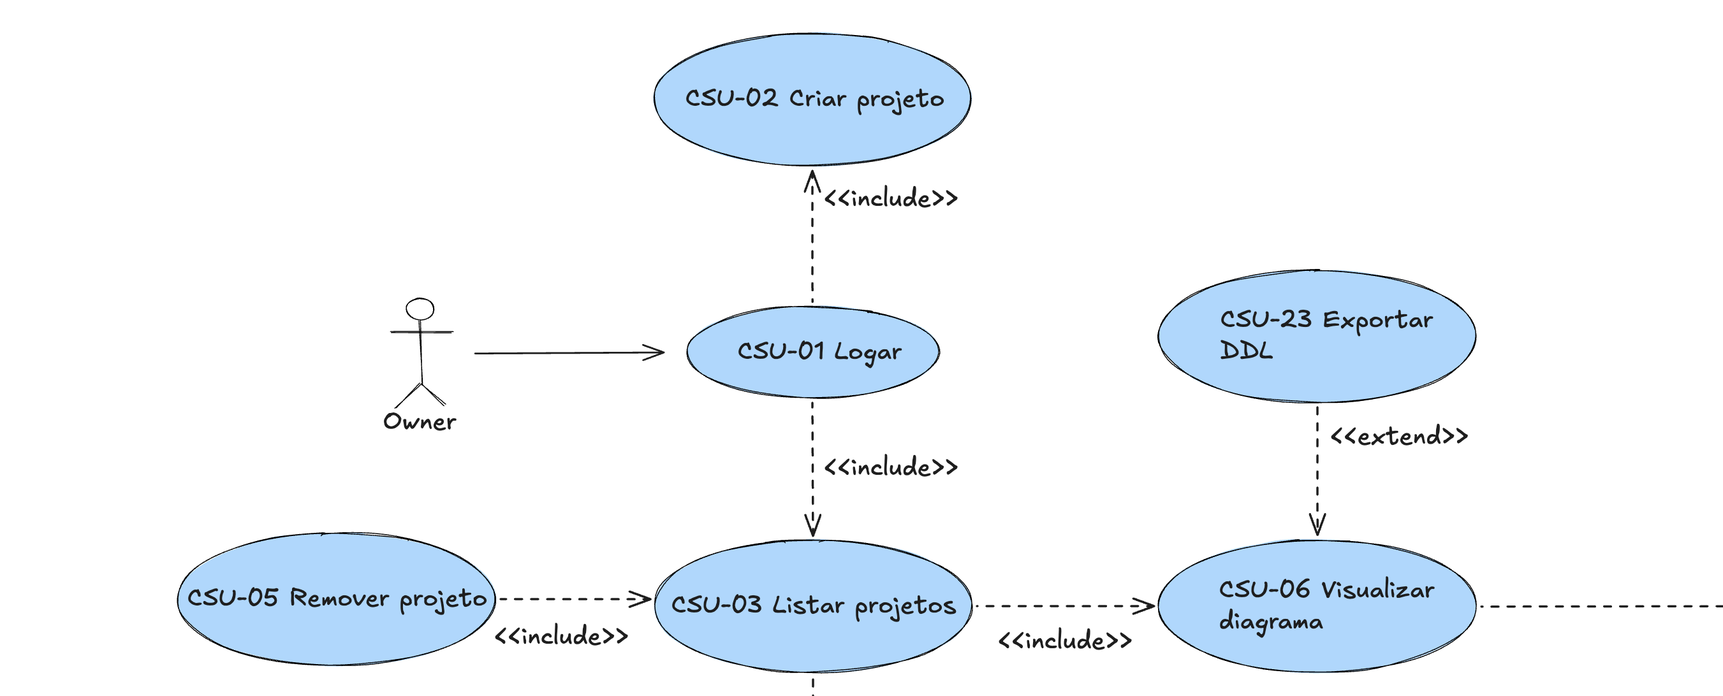
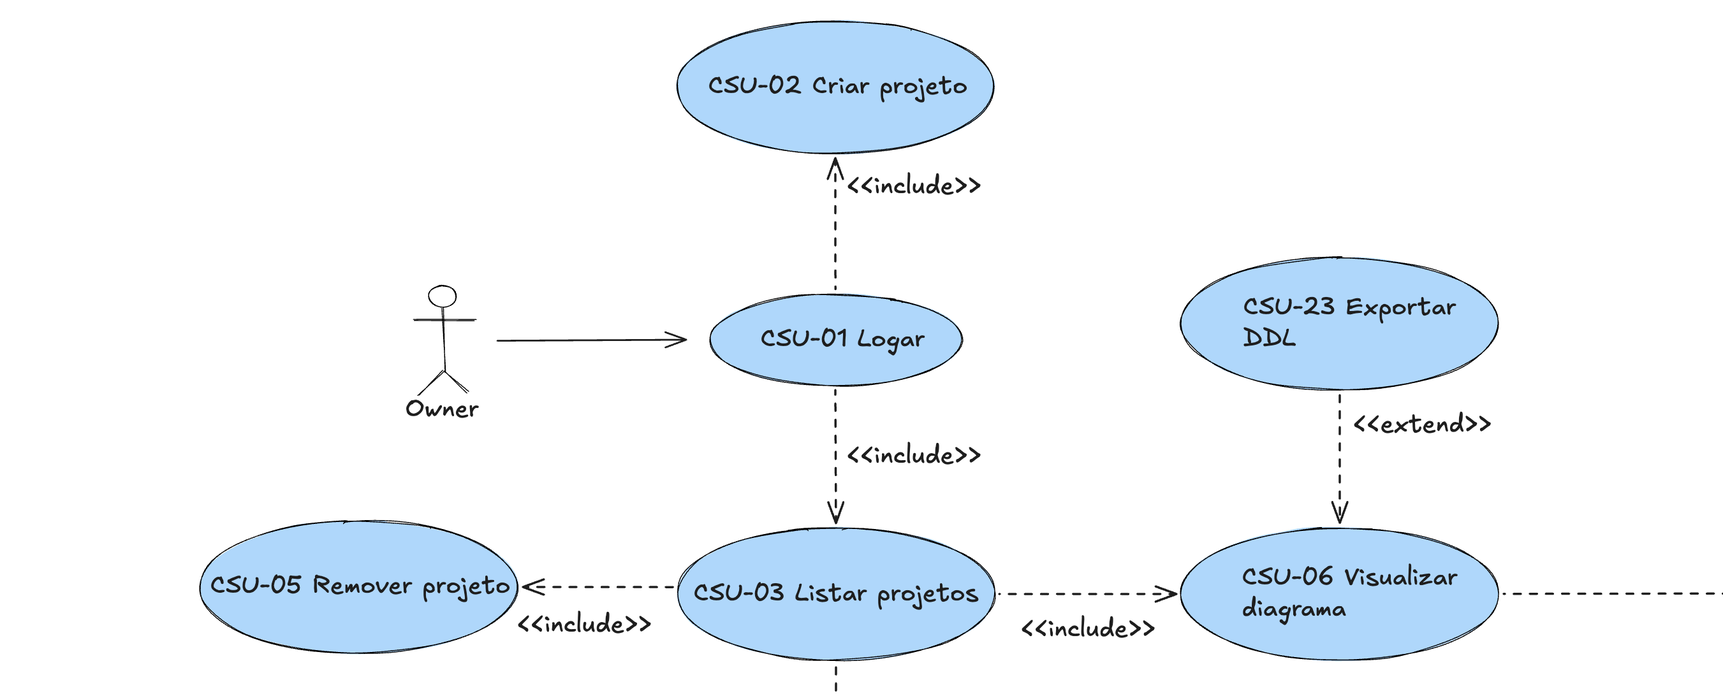
Updates from Overleaf

diff --git a/resultados.tex b/resultados.tex
@@ -8,7 +8,7 @@ Esta seção apresenta os resultados obtidos ao longo do desenvolvimento do prot
 
 O diagrama de caso de uso detalha as interações entre os atores e o sistema. Foram identificados três atores distintos, cada um representando um perfil de acesso diferente dentro da plataforma: \textit{Viewer}, \textit{Editor} e \textit{Owner}. Para preservar a legibilidade, os diagramas foram divididos em partes complementares, cada uma retomando o caso de uso que a conecta às demais. Como o \textit{Owner} compartilha integralmente os casos de uso do \textit{Editor}, as suas figuras apresentam somente os casos de uso que lhe são exclusivos, sem repetir as operações de modelagem já ilustradas. A especificação completa de cada caso de uso encontra-se no \hyperref[anx:caso-de-uso]{Anexo A}.
 
-O ator \textit{Viewer}, apresentado na Figura~\ref{fig:caso-de-uso-viewer}, representa o colaborador com acesso somente leitura. Após realizar o \textit{login} (CSU-01), ele pode listar os projetos dos quais faz parte (CSU-03) e visualizar os diagramas associados a eles (CSU-06).
+O ator \textit{Viewer}, apresentado na Figura~\ref{fig:caso-de-uso-viewer}, representa o colaborador com acesso somente leitura. Após realizar o \textit{login}, ele pode listar os projetos dos quais faz parte e visualizar os diagramas associados a eles.
 
 \begin{figure}[H]
     \centering
@@ -20,96 +20,96 @@ O ator \textit{Viewer}, apresentado na Figura~\ref{fig:caso-de-uso-viewer}, repr
     \label{fig:caso-de-uso-viewer}
 \end{figure}
 
-O ator \textit{Editor} herda as capacidades do \textit{Viewer} e adiciona a permissão de editar diagramas. Como o conjunto de casos de uso desse ator é extenso, o diagrama foi dividido em cinco partes, apresentadas nas Figuras~\ref{fig:caso-de-uso-editor-p1} a~\ref{fig:caso-de-uso-editor-p5}. A Figura~\ref{fig:caso-de-uso-editor-p1} apresenta o fluxo principal: após o \textit{login}, o \textit{Editor} lista os projetos, visualiza o diagrama --- de onde é possível exportar o \textit{script} SQL correspondente (CSU-23) --- e acessa a edição do diagrama (CSU-07), caso de uso que concentra as operações de modelagem detalhadas nas partes seguintes.
+O ator \textit{Editor} herda as capacidades do \textit{Viewer} e adiciona a permissão de editar diagramas. Como o conjunto de casos de uso desse ator é extenso, o diagrama foi dividido em cinco partes, apresentadas nas Figuras~\ref{fig:caso-de-uso-editor-p1} a~\ref{fig:caso-de-uso-editor-p5}. A Figura~\ref{fig:caso-de-uso-editor-p1} apresenta o fluxo principal: após o \textit{login}, o \textit{Editor} lista os projetos, visualiza o diagrama de onde é possível exportar o \textit{script} SQL correspondente e acessa a edição do diagrama, caso de uso que concentra as operações de modelagem detalhadas nas partes seguintes.
 
 \begin{figure}[H]
     \centering
     \includegraphics[width=15cm]{figuras/editor-part1.png}
-    \caption{Diagrama de caso de uso do ator Editor --- parte 1 de 5: fluxo principal}
+    \caption{Diagrama de caso de uso do ator Editor destacando o fluxo principal}
     \begin{center}
         {\small Fonte: Elaborado pelo autor}
     \end{center}
     \label{fig:caso-de-uso-editor-p1}
 \end{figure}
 
-A Figura~\ref{fig:caso-de-uso-editor-p2} detalha, a partir do CSU-07, as operações sobre tabelas: adicionar (CSU-13), editar (CSU-14) e remover (CSU-15). A edição de uma tabela abrange ainda a adição (CSU-19) e a listagem dos seus atributos (CSU-20).
+A Figura~\ref{fig:caso-de-uso-editor-p2} detalha, a partir do CSU-07, as operações sobre tabelas: adicionar, editar e remover. A edição de uma tabela abrange ainda a adição e a listagem dos seus atributos.
 
 \begin{figure}[H]
     \centering
     \includegraphics[width=15cm]{figuras/editor-part2.png}
-    \caption{Diagrama de caso de uso do ator Editor --- parte 2 de 5: gerenciamento de tabelas, a partir do CSU-07}
+    \caption{Diagrama de caso de uso do ator Editor destacando o gerenciamento de tabelas}
     \begin{center}
         {\small Fonte: Elaborado pelo autor}
     \end{center}
     \label{fig:caso-de-uso-editor-p2}
 \end{figure}
 
-A Figura~\ref{fig:caso-de-uso-editor-p3} dá continuidade ao CSU-20 da parte anterior, apresentando a edição (CSU-21) e a remoção (CSU-22) de atributos como extensões da listagem.
+A Figura~\ref{fig:caso-de-uso-editor-p3} dá continuidade ao CSU-20 da parte anterior, apresentando a edição e a remoção de atributos como extensões da listagem.
 
 \begin{figure}[H]
     \centering
     \includegraphics[width=15cm]{figuras/editor-part3.png}
-    \caption{Diagrama de caso de uso do ator Editor --- parte 3 de 5: gerenciamento de atributos, a partir do CSU-20}
+    \caption{Diagrama de caso de uso do ator Editor destacando o gerenciamento de atributos}
     \begin{center}
         {\small Fonte: Elaborado pelo autor}
     \end{center}
     \label{fig:caso-de-uso-editor-p3}
 \end{figure}
 
-A Figura~\ref{fig:caso-de-uso-editor-p4} retoma o CSU-07 e apresenta as operações sobre os relacionamentos entre entidades: adicionar (CSU-16) e remover (CSU-17).
+A Figura~\ref{fig:caso-de-uso-editor-p4} retoma o CSU-07 e apresenta as operações sobre os relacionamentos entre entidades: adicionar e remover.
 
 \begin{figure}[H]
     \centering
     \includegraphics[width=15cm]{figuras/editor-part4.png}
-    \caption{Diagrama de caso de uso do ator Editor --- parte 4 de 5: gerenciamento de relacionamentos, a partir do CSU-07}
+    \caption{Diagrama de caso de uso do ator Editor destacando o gerenciamento de relacionamentos}
     \begin{center}
         {\small Fonte: Elaborado pelo autor}
     \end{center}
     \label{fig:caso-de-uso-editor-p4}
 \end{figure}
 
-Por fim, a Figura~\ref{fig:caso-de-uso-editor-p5}, também derivada do CSU-07, reúne o reposicionamento de elementos na área de desenho (CSU-18) e a importação de \textit{script} SQL (CSU-24).
+Por fim, a Figura~\ref{fig:caso-de-uso-editor-p5}, também derivada do CSU-07, reúne o reposicionamento de elementos na área de desenho e a importação do \textit{script} SQL.
 
 \begin{figure}[H]
     \centering
     \includegraphics[width=15cm]{figuras/editor-part5.png}
-    \caption{Diagrama de caso de uso do ator Editor --- parte 5 de 5: movimentação de elementos e importação SQL, a partir do CSU-07}
+    \caption{Diagrama de caso de uso do ator Editor destacando a movimentação de elementos e importação SQL}
     \begin{center}
         {\small Fonte: Elaborado pelo autor}
     \end{center}
     \label{fig:caso-de-uso-editor-p5}
 \end{figure}
 
-O ator \textit{Owner} possui o conjunto mais amplo de permissões: além de todos os casos de uso do \textit{Editor}, é o responsável pelo ciclo de vida dos projetos e pela gestão do time de colaboradores. As operações de modelagem do diagrama são exatamente as mesmas do \textit{Editor} e, por isso, não são reproduzidas novamente --- permanecem válidas as Figuras~\ref{fig:caso-de-uso-editor-p1} a~\ref{fig:caso-de-uso-editor-p5}, bastando substituir o ator. As Figuras~\ref{fig:caso-de-uso-owner-p1} a~\ref{fig:caso-de-uso-owner-p3} apresentam apenas o que é exclusivo desse ator. A Figura~\ref{fig:caso-de-uso-owner-p1} mostra o fluxo principal: após o \textit{login} (CSU-01), o \textit{Owner} pode criar projetos (CSU-02) e listar os projetos existentes (CSU-03), listagem a partir da qual remove projetos (CSU-05) e acessa a visualização do diagrama (CSU-06), retomando daí o mesmo percurso de edição já descrito para o \textit{Editor}.
+O ator \textit{Owner} possui o conjunto mais amplo de permissões: além de todos os casos de uso do \textit{Editor}, é o responsável pelo ciclo de vida dos projetos e pela gestão do time de colaboradores. As operações de modelagem do diagrama são exatamente as mesmas do \textit{Editor} e, por isso, não são reproduzidas novamente e permanecem válidas as Figuras~\ref{fig:caso-de-uso-editor-p1} a~\ref{fig:caso-de-uso-editor-p5}, bastando substituir o ator. As Figuras~\ref{fig:caso-de-uso-owner-p1} a~\ref{fig:caso-de-uso-owner-p3} apresentam apenas o que é exclusivo desse ator. A Figura~\ref{fig:caso-de-uso-owner-p1} mostra o fluxo principal: após o \textit{login}, o \textit{Owner} pode criar projetos e listar os projetos existentes, listagem a partir da qual remove projetos e acessa a visualização do diagrama, retomando daí o mesmo percurso de edição já descrito para o \textit{Editor}.
 
 \begin{figure}[H]
     \centering
     \includegraphics[width=15cm]{figuras/owner-part1.png}
-    \caption{Diagrama de caso de uso do ator Owner --- parte 1 de 3: fluxo principal e ciclo de vida dos projetos}
+    \caption{Diagrama de caso de uso do ator Owner destacando fluxo principal e ciclo de vida dos projetos}
     \begin{center}
         {\small Fonte: Elaborado pelo autor}
     \end{center}
     \label{fig:caso-de-uso-owner-p1}
 \end{figure}
 
-A Figura~\ref{fig:caso-de-uso-owner-p2} dá continuidade à listagem de projetos (CSU-03) e apresenta a edição do projeto (CSU-04), que dá acesso à adição de membros ao time (CSU-08) e à listagem dos membros existentes (CSU-09).
+A Figura~\ref{fig:caso-de-uso-owner-p2} dá continuidade à listagem de projetos e apresenta a edição do projeto, que dá acesso à adição de membros ao time e à listagem dos membros existentes.
 
 \begin{figure}[H]
     \centering
     \includegraphics[width=15cm]{figuras/owner-part2.png}
-    \caption{Diagrama de caso de uso do ator Owner --- parte 2 de 3: gestão do projeto e do time, a partir do CSU-03}
+    \caption{Diagrama de caso de uso do ator Owner destacando a gestão do projeto e do time}
     \begin{center}
         {\small Fonte: Elaborado pelo autor}
     \end{center}
     \label{fig:caso-de-uso-owner-p2}
 \end{figure}
 
-Por fim, a Figura~\ref{fig:caso-de-uso-owner-p3} dá continuidade ao CSU-09, com a remoção (CSU-11) e a edição de membros (CSU-10), esta última estendida pela alteração do papel de acesso do colaborador no projeto (CSU-12).
+Por fim, a Figura~\ref{fig:caso-de-uso-owner-p3} dá continuidade ao CSU-09, com a remoção e a edição de membros, sendo esta última estendida pela alteração do papel de acesso do colaborador no projeto.
 
 \begin{figure}[H]
     \centering
     \includegraphics[width=15cm]{figuras/owner-part3.png}
-    \caption{Diagrama de caso de uso do ator Owner --- parte 3 de 3: gerenciamento de membros, a partir do CSU-09}
+    \caption{Diagrama de caso de uso do ator Owner destacando o gerenciamento de membros}
     \begin{center}
         {\small Fonte: Elaborado pelo autor}
     \end{center}
@@ -120,7 +120,7 @@ Por fim, a Figura~\ref{fig:caso-de-uso-owner-p3} dá continuidade ao CSU-09, com
 
 As figuras \ref{fig:modelo-conceitual}, \ref{fig:modelo-logico} e \ref{fig:modelo-nosql} apresentam, respectivamente, os artefatos de modelagem de dados produzidos no projeto: o modelo conceitual e o modelo lógico do banco de dados relacional, e o esquema não-relacional com MongoDB.
 
-O modelo conceitual define as entidades e relacionamentos de alto nível, representando a estrutura geral dos dados. Ao todo, sete entidades compõem o modelo --- \textit{users}, \textit{teams}, \textit{projects}, \textit{diagrams}, \textit{entities}, \textit{attributes} e \textit{relationships} ---, conectadas por relações que refletem a hierarquia usuário-time-projeto-diagrama e a composição interna de cada diagrama em entidades, atributos e relacionamentos.
+O modelo conceitual define as entidades e relacionamentos de alto nível, representando a estrutura geral dos dados. Ao todo, sete entidades compõem o modelo (\textit{users}, \textit{teams}, \textit{projects}, \textit{diagrams}, \textit{entities}, \textit{attributes} e \textit{relationships}) conectadas por relações que refletem a hierarquia usuário-time-projeto-diagrama e a composição interna de cada diagrama em entidades, atributos e relacionamentos.
 
 \begin{figure}[H]
     \centering
@@ -132,7 +132,7 @@ O modelo conceitual define as entidades e relacionamentos de alto nível, repres
     \label{fig:modelo-conceitual}
 \end{figure}
 
-O modelo lógico detalha a estrutura das tabelas e seus atributos, considerando as características do sistema de gerenciamento de banco de dados utilizado. O esquema relacional é composto por quatro tabelas --- \textit{teams}, \textit{projects}, \textit{users} e \textit{refresh\_tokens} --- relacionadas por chaves estrangeiras que garantem a integridade referencial entre usuários, times e projetos, além do controle de sessão por meio dos \textit{tokens} de renovação.
+O modelo lógico detalha a estrutura das tabelas e seus atributos, considerando as características do sistema de gerenciamento de banco de dados utilizado. O esquema relacional é composto por quatro tabelas (\textit{teams}, \textit{projects}, \textit{users} e \textit{refresh\_tokens}) relacionadas por chaves estrangeiras que garantem a integridade referencial entre usuários, times e projetos, além do controle de sessão por meio dos \textit{tokens} de renovação.
 
 \begin{figure}[H]
     \centering
@@ -144,7 +144,7 @@ O modelo lógico detalha a estrutura das tabelas e seus atributos, considerando 
     \label{fig:modelo-logico}
 \end{figure}
 
-O esquema documental projetado para o MongoDB contempla as coleções, os campos e os tipos de dados. O esquema é composto por uma única coleção, \textit{diagram}, com cinco campos: o identificador (\textit{\_id}), o discriminador de classe (\textit{\_class}), a referência ao projeto (\textit{projectId}) e os campos \textit{linkData} e \textit{nodeData}, detalhados a seguir, que armazenam, respectivamente, os relacionamentos e as entidades do diagrama em formato serializado.
+O esquema documental projetado para o MongoDB contempla as coleções, os campos e os tipos de dados. O esquema é composto por uma única coleção chamada \textit{diagram}, com cinco campos: o identificador, o discriminador de classe, a referência ao projeto e os campos \textit{linkData} e \textit{nodeData}, detalhados a seguir, que armazenam, respectivamente, os relacionamentos e as entidades do diagrama em formato serializado.
 
 \begin{figure}[H]
     \centering
@@ -267,7 +267,7 @@ Conforme descrito na Subseção~\ref{subsec:testes} da Metodologia, a validaçã
 
 No \textit{back-end}, a suíte de testes unitários com JUnit e Mockito cobre a lógica de negócio, o acesso aos dados e as regras de segurança da aplicação, incluindo a validação do \textit{token} JWT e as camadas de autorização apresentadas na Figura~\ref{fig:arquitetura-autenticacao}. A cobertura de código dessa suíte é medida automaticamente pelo JaCoCo, e a qualidade do código é avaliada pelo SonarQube; ambas as verificações são executadas a cada atualização enviada ao repositório, impedindo que alterações que reduzam a cobertura mínima estabelecida sejam incorporadas ao projeto.
 
-No \textit{front-end}, a suíte de testes unitários com Jasmine e Karma cobre os componentes de interface e os serviços responsáveis pela comunicação com o \textit{back-end} e pela navegação entre telas. Para viabilizar essa cobertura, as partes do editor de diagramas que dependem diretamente de bibliotecas externas --- a renderização via GoJS e a comunicação em tempo real --- foram isoladas em componentes próprios, o que permite testá-las de forma independente do restante da aplicação. Assim como no \textit{back-end}, essa suíte também é executada automaticamente a cada atualização de código, com a mesma exigência de cobertura mínima.
+No \textit{front-end}, a suíte de testes unitários com Jasmine e Karma cobre os componentes de interface e os serviços responsáveis pela comunicação com o \textit{back-end} e pela navegação entre telas. Para viabilizar essa cobertura, as partes do editor de diagramas que dependem diretamente de bibliotecas externas, a renderização via GoJS e a comunicação em tempo real, foram isoladas em componentes próprios, o que permite testá-las de forma independente do restante da aplicação. Assim como no \textit{back-end}, essa suíte também é executada automaticamente a cada atualização de código, com a mesma exigência de cobertura mínima.
 
 Os testes manuais com Postman validaram os principais fluxos das APIs REST expostas pelo \textit{back-end}: autenticação e renovação de \textit{token}, criação, edição e exclusão de projetos, gestão de times (adição, listagem, alteração de papel e remoção de membros) e persistência do estado do diagrama (entidades, atributos, relacionamentos e posicionamentos).
 

diff --git a/metodologia.tex b/metodologia.tex
@@ -16,49 +16,49 @@ Nesta seção, são listados os equipamentos de \textit{hardware} e as ferrament
 \subsection[Análise, Modelagem e Projeto]{Análise, Modelagem e Projeto}
 
 \begin{itemize}
-    \item Unified Modeling Language (UML) \cite{UML2015} --- elaboração dos diagramas de caso de uso do sistema.
-    \item Excalidraw, com a biblioteca \textit{Shapes for UML and ER Diagrams} --- criação dos diagramas de arquitetura e dos modelos de dados.
+    \item Unified Modeling Language (UML) \cite{UML2015}: elaboração dos diagramas de caso de uso do sistema.
+    \item Excalidraw, com a biblioteca \textit{Shapes for UML and ER Diagrams}: criação dos diagramas de arquitetura e dos modelos de dados.
 \end{itemize}
 
 \subsection[Persistência de dados]{Persistência de dados}
 
 \begin{itemize}
-    \item PostgreSQL \cite{PostgreSQL2024} --- persistência dos dados relacionais (usuários, projetos e permissões de acesso).
-    \item MongoDB \cite{MongoDB2021} --- persistência da estrutura dos diagramas ER.
-    \item DBeaver --- administração, consulta e manipulação dos dados no PostgreSQL e no MongoDB.
+    \item PostgreSQL \cite{PostgreSQL2024}: persistência dos dados relacionais (usuários, projetos e permissões de acesso).
+    \item MongoDB \cite{MongoDB2021}: persistência da estrutura dos diagramas ER.
+    \item DBeaver: administração, consulta e manipulação dos dados no PostgreSQL e no MongoDB.
 \end{itemize}
 
 \subsection[Implementação]{Implementação}
 
 \begin{itemize}
-    \item Git \cite{Git2025} --- controle de versão do código-fonte.
-    \item GitHub \cite{GitHub2024} --- hospedagem e repositório central do código-fonte.
-    \item GitHub Copilot --- apoio à revisão de código em parte dos \textit{pull requests}.
-    \item Docker \cite{Docker2024} --- containerização do ambiente de desenvolvimento e dos bancos de dados.
-    \item IntelliJ IDEA \cite{IntelliJ2024} --- IDE para o desenvolvimento do \textit{back-end} em Java e Spring.
-    \item WebStorm \cite{WebStorm2024} --- IDE para o desenvolvimento do \textit{front-end} em Angular.
-    \item Java \cite{Java2024} --- linguagem de programação do \textit{back-end}.
-    \item Spring Boot \cite{SpringBoot2024} --- \textit{framework} de estruturação do \textit{back-end} e das APIs REST.
-    \item Spring WebSocket \cite{WebSockets2024} --- comunicação em tempo real entre \textit{back-end} e clientes.
-    \item Spring Security \cite{SpringSecurity2024} --- autenticação e autorização da aplicação, em conjunto com JWT.
-    \item Spring Data JPA \cite{SpringDataJPA2024} --- camada de acesso a dados do PostgreSQL.
-    \item Spring Data MongoDB \cite{SpringDataMongoDB2024} --- camada de acesso a dados do MongoDB.
-    \item Angular \cite{Angular2022} --- construção da interface do usuário como \textit{Single-Page Application}.
-    \item GoJS \cite{GoJS2024} --- renderização e manipulação interativa dos diagramas ER.
-    \item stompjs e SockJS \cite{StompJS2023} --- comunicação via \textit{WebSocket} no lado do cliente.
-    \item Node Package Manager (npm) \cite{NPM2024} --- gestão das dependências do \textit{front-end}.
+    \item Git \cite{Git2025}: controle de versão do código-fonte.
+    \item GitHub \cite{GitHub2024}: hospedagem e repositório central do código-fonte.
+    \item GitHub Copilot \cite{GitHubCopilot2026}: apoio à revisão de código em parte dos \textit{pull requests}.
+    \item Docker \cite{Docker2024}: containerização do ambiente de desenvolvimento e dos bancos de dados.
+    \item IntelliJ IDEA \cite{IntelliJ2024}: IDE para o desenvolvimento do \textit{back-end} em Java e Spring.
+    \item WebStorm \cite{WebStorm2024}: IDE para o desenvolvimento do \textit{front-end} em Angular.
+    \item Java \cite{Java2024}: linguagem de programação do \textit{back-end}.
+    \item Spring Boot \cite{SpringBoot2024}: \textit{framework} de estruturação do \textit{back-end} e das APIs REST.
+    \item Spring WebSocket \cite{WebSockets2024}: comunicação em tempo real entre \textit{back-end} e clientes.
+    \item Spring Security \cite{SpringSecurity2024}: autenticação e autorização da aplicação, em conjunto com JWT.
+    \item Spring Data JPA \cite{SpringDataJPA2024}: camada de acesso a dados do PostgreSQL.
+    \item Spring Data MongoDB \cite{SpringDataMongoDB2024}: camada de acesso a dados do MongoDB.
+    \item Angular \cite{Angular2022}: construção da interface do usuário como \textit{Single-Page Application}.
+    \item GoJS \cite{GoJS2024}: renderização e manipulação interativa dos diagramas ER.
+    \item stompjs e SockJS \cite{StompJS2023}: comunicação via \textit{WebSocket} no lado do cliente.
+    \item Node Package Manager (npm) \cite{NPM2024}: gestão das dependências do \textit{front-end}.
 \end{itemize}
 
 \subsection[Testes]{Testes}
 \label{subsec:testes}
 
 \begin{itemize}
-    \item JUnit e Mockito \cite{JUnit2023} \cite{Mockito} --- testes unitários da lógica de negócio no \textit{back-end}.
-    \item Jasmine e Karma \cite{Jasmine2024} \cite{Karma2024} --- testes unitários dos componentes e serviços do \textit{front-end}.
-    \item JaCoCo \cite{JaCoCo2024} --- medição da cobertura de código dos testes unitários do \textit{back-end}.
-    \item SonarQube \cite{SonarQube2024} --- análise estática de qualidade e cobertura de código do \textit{back-end}.
-    \item Postman \cite{Postman2024} --- testes manuais das APIs REST do \textit{back-end}.
-    \item Google Chrome e Mozilla Firefox \cite{GoogleChrome} \cite{MozillaFirefox} --- testes manuais de compatibilidade da interface do usuário.
+    \item JUnit \cite{JUnit2023} e Mockito \cite{Mockito2025}: testes unitários da lógica de negócio no \textit{back-end}.
+    \item Jasmine \cite{Jasmine2024} e Karma \cite{Karma2024}: testes unitários dos componentes e serviços do \textit{front-end}.
+    \item JaCoCo \cite{JaCoCo2024}: medição da cobertura de código dos testes unitários do \textit{back-end}.
+    \item SonarQube \cite{SonarQube2024}: análise estática de qualidade e cobertura de código do \textit{back-end}.
+    \item Postman \cite{Postman2024}: testes manuais das APIs REST do \textit{back-end}.
+    \item Google Chrome \cite{GoogleChrome2025} e Mozilla Firefox \cite{MozillaFirefox2026}: testes manuais de compatibilidade da interface do usuário.
 \end{itemize}
 
 \section[Métodos]{Métodos}
@@ -110,7 +110,7 @@ Em contrapartida, para a persistência dos dados que compõem os diagramas ER do
 
 Uma das funcionalidades centrais do protótipo é a capacidade de exportar e importar o diagrama ER como um \textit{script} SQL. Para viabilizar essas operações, foi necessário definir um dialeto SQL de referência, já que diferentes SGBDs possuem particularidades sintáticas próprias em suas instruções DDL.
 
-O dialeto adotado foi o {MySQL. O MySQL é um sistema de gerenciamento de banco de dados relacional de código aberto, mantido pela Oracle Corporation, e é amplamente reconhecido como um dos SGBDs mais utilizados no mundo para aplicações \textit{web} \cite{OracleMySQL}. Sua sintaxe DDL é amplamente difundida no mercado de desenvolvimento \textit{web}, o que torna o dialeto MySQL uma escolha adequada para maximizar a interoperabilidade dos \textit{scripts} gerados e importados pelo protótipo com outros ambientes e ferramentas do ecossistema de desenvolvimento de \textit{software}.
+O dialeto adotado foi o {MySQL. O MySQL é um sistema de gerenciamento de banco de dados relacional de código aberto, mantido pela Oracle Corporation, e é amplamente reconhecido como um dos SGBDs mais utilizados no mundo para aplicações \textit{web} \cite{OracleMySQL2024}. Sua sintaxe DDL é amplamente difundida no mercado de desenvolvimento \textit{web}, o que torna o dialeto MySQL uma escolha adequada para maximizar a interoperabilidade dos \textit{scripts} gerados e importados pelo protótipo com outros ambientes e ferramentas do ecossistema de desenvolvimento de \textit{software}.
 
 \subsection[Padrão de Arquitetura de Software e de Código]{Padrão de Arquitetura de Software e de Código}
 Com a arquitetura macro definida, foram adotados padrões específicos para a organização interna do código, tanto no \textit{back-end} quanto no \textit{front-end}.
@@ -213,7 +213,7 @@ Diante desse contexto, a adoção do inglês como idioma padrão para todos os a
 Esta padronização foi aplicada de forma abrangente nos seguintes artefatos do projeto:
 
 \begin{itemize}
-    \item Código-fonte: nomes de classes, métodos, variáveis e atributos foram definidos em inglês tanto no \textit{back-end} (Java/Spring) quanto no \textit{front-end} (Angular/TypeScript), mantendo coerência com os próprios nomes das APIs e as convenções dos \textit{frameworks} utilizados.
+    \item Código-fonte: nomes de classes, métodos, variáveis e atributos foram definidos em inglês tanto no \textit{back-end} (Spring/Java) quanto no \textit{front-end} (Angular/TypeScript), mantendo coerência com os próprios nomes das APIs e as convenções dos \textit{frameworks} utilizados.
     \item Banco de dados: os nomes das tabelas, colunas e restrições no PostgreSQL, bem como os nomes das coleções e campos dos documentos no MongoDB, foram definidos em inglês. Essa decisão garante consistência com as anotações do Spring Data JPA e do Spring Data MongoDB, que realizam o mapeamento objeto-relacional e objeto-documento a partir dos identificadores declarados no código-fonte.
     \item Diagramas: os nomes de entidades, atributos e relacionamentos nos diagramas ER foram especificados em inglês, garantindo uniformidade com os demais artefatos técnicos do projeto.
     \item \textit{Endpoints} da API REST: os caminhos dos recursos e as operações expostas pela API foram nomeados em inglês, seguindo as convenções estabelecidas pelo estilo arquitetural REST.
